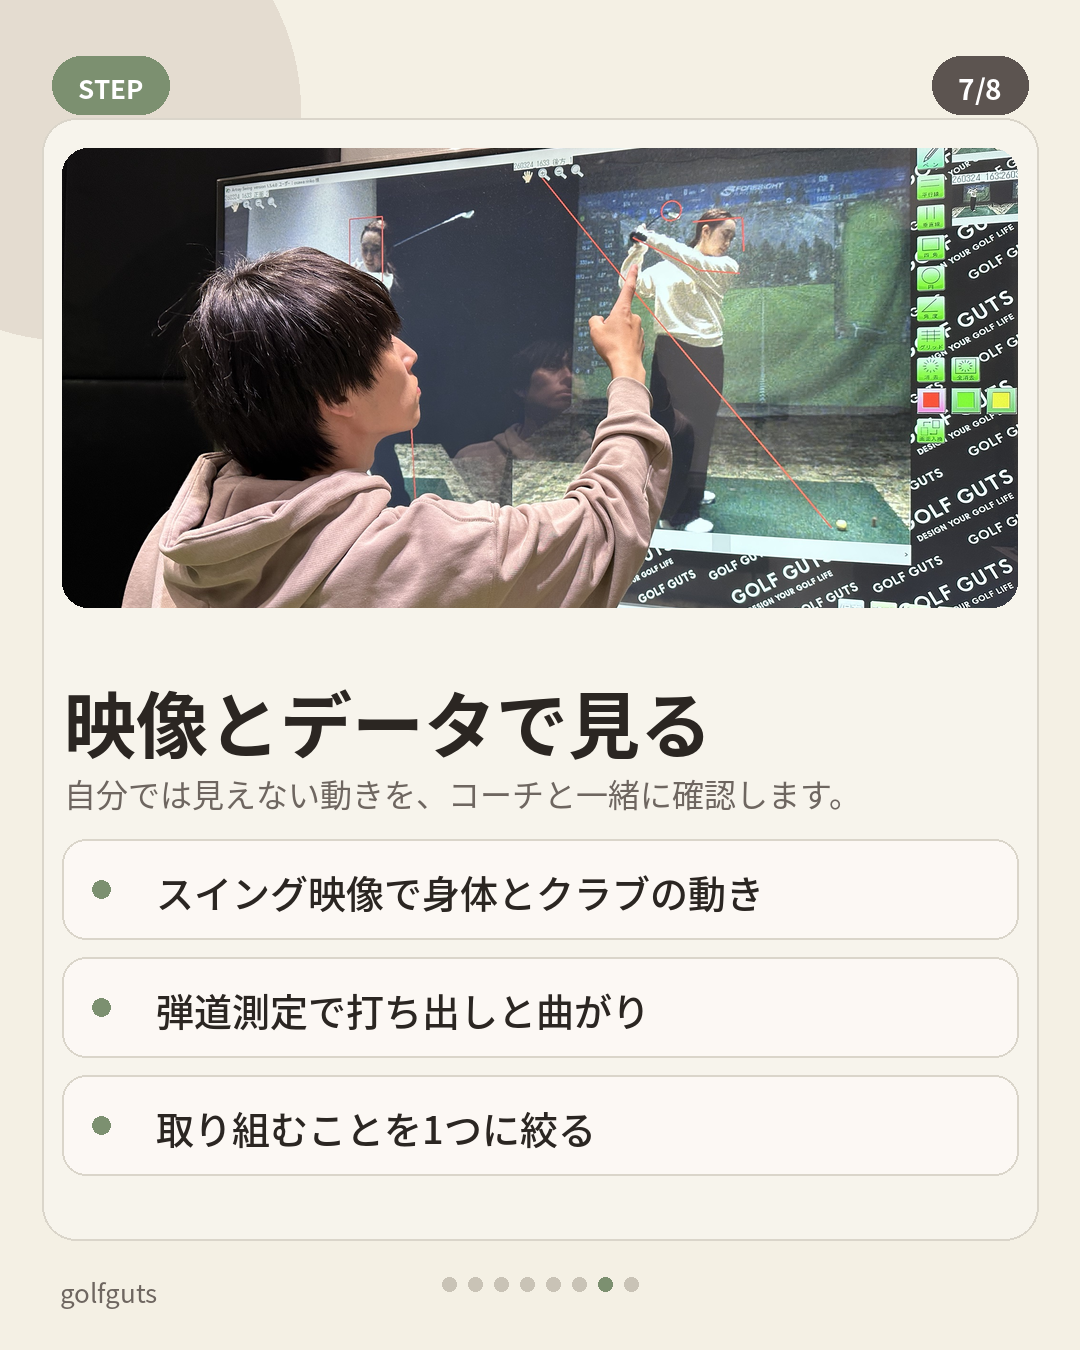
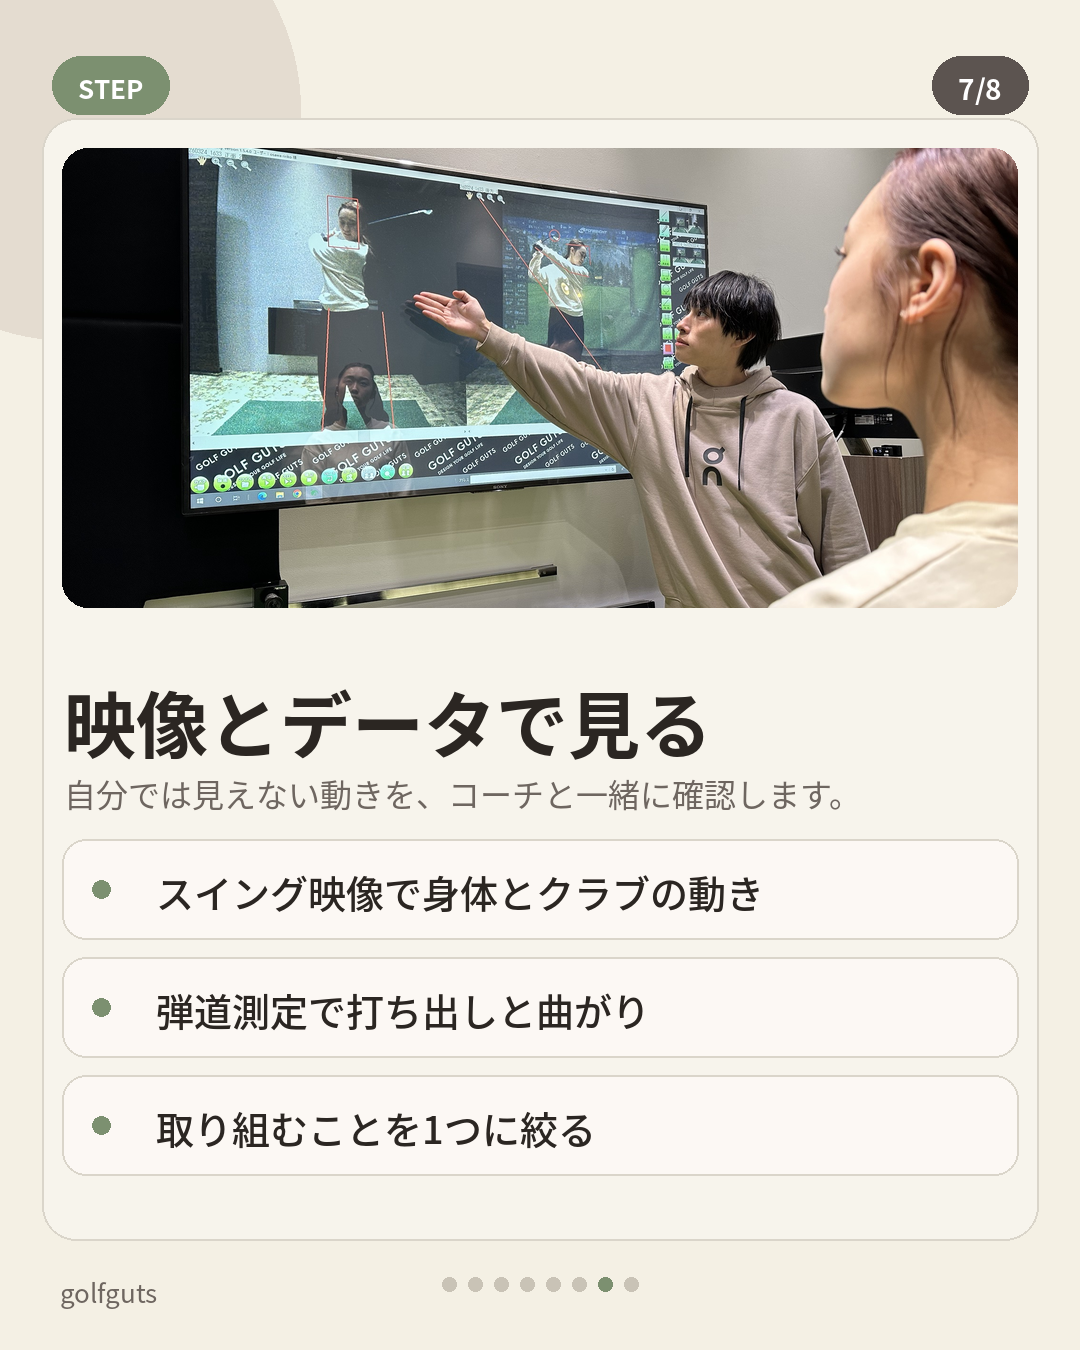
写真の使い回しを解消（1〜2週目で10枚を別々に使用）、ルールを記録
Claude-Session: https://claude.ai/code/session_01PYpmDyjPeMWw7oSziVxqdv

Changed region(s): [[0.0917, 0.0933, 0.9472, 0.4667]]

diff --git a/CLAUDE.md b/CLAUDE.md
@@ -209,6 +209,7 @@ LP訴求：「今のスイングを確認し、何から取り組むかを整理
   - 左上：セージ色のラベル #7C9070（STEP 01／価格案内 など）、右上：グレー #5C5450 のページ番号ピル
   - 表紙：明朝体（Noto Serif）の大見出し、下半分に写真。中ページ：ゴシック太字の見出し＋グレーの補足＋箇条書き。最終：セージのCTAピル
   - 下部：golfguts ＋ ページのドット（現在ページはセージ）
+  - **写真の使い回し禁止（2026-10-20 依頼者指摘）**：同じ写真は1カルーセル内で1回、週をまたいでも原則1回。カルーセル8枚のうち写真入りを4〜5枚、文字のみを3〜4枚にして単調にしない
   - テンプレート：cover／step（写真 or 図解あり）／list（写真なし・CTA可）／cta
   - 図解（線画）：`diagram` に push_vs_pull（球筋2種の比較）／face_path（軌道とフェース向き）。追加する図解は同じ関数形式で DIAGRAMS に登録
 - ネイビー・蛍光イエローは使わない
